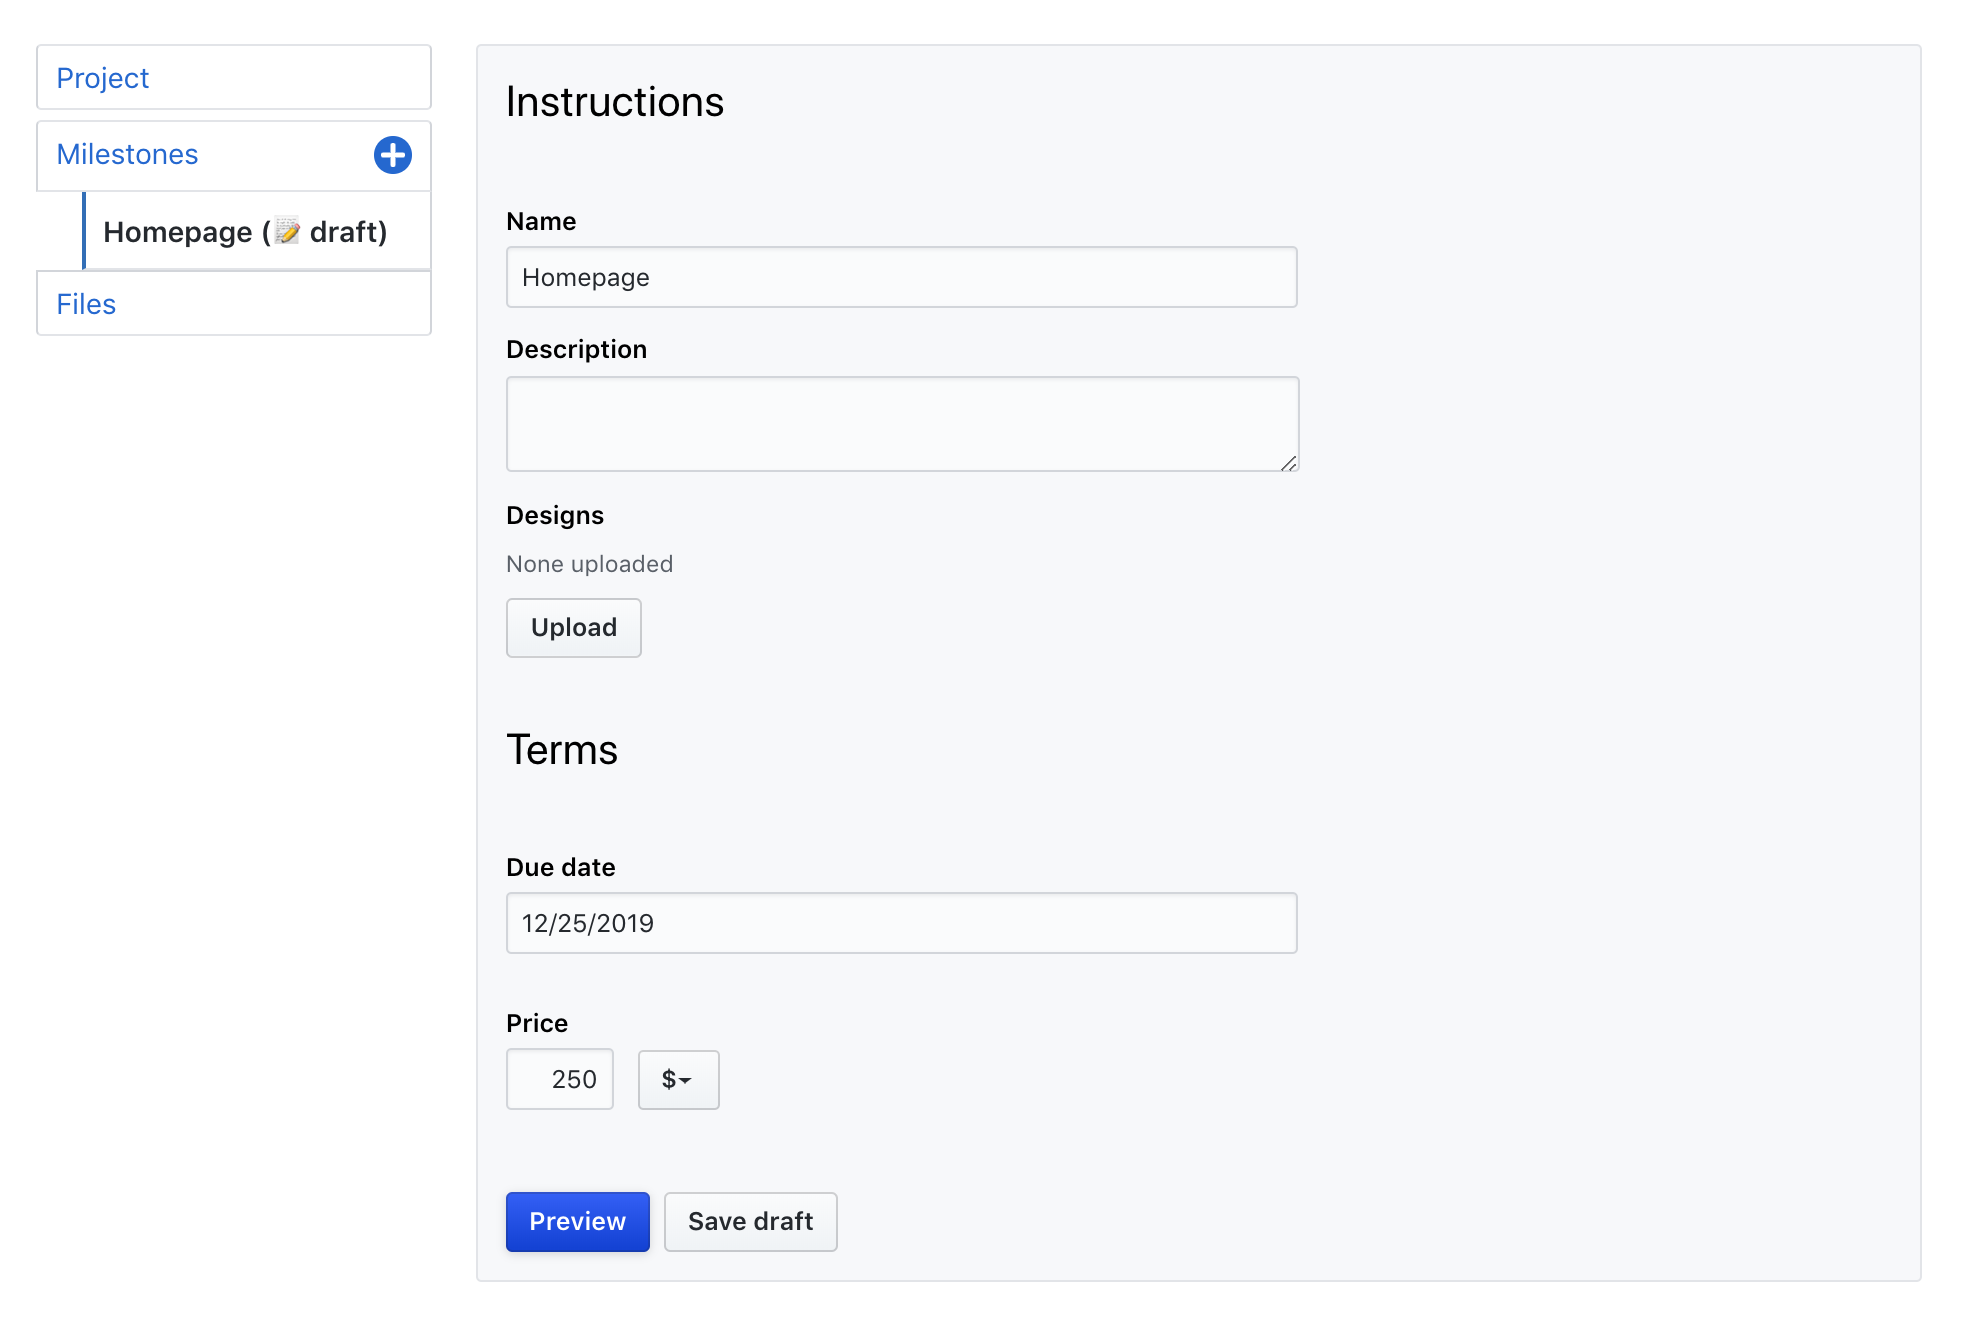
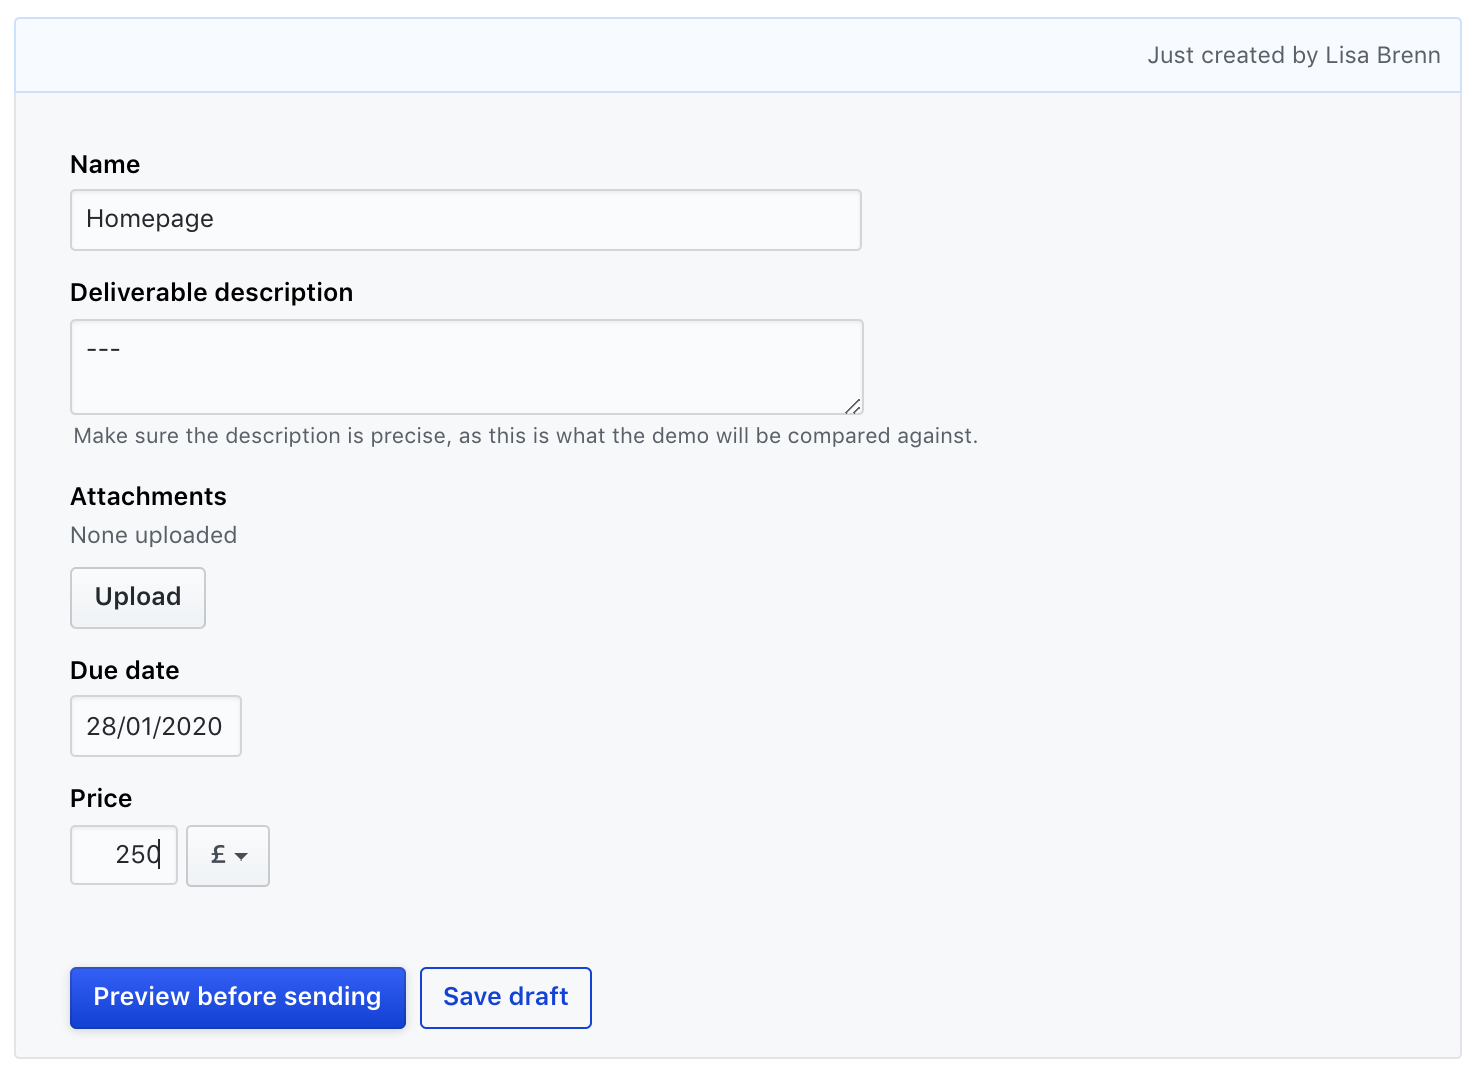
ele

diff --git a/_sass/custom/custom.scss b/_sass/custom/custom.scss
@@ -8,6 +8,53 @@ body {
   @include fs-6;
 }
 
+.button {
+  position: relative;
+  display: inline-block;
+  padding: 6px 12px;
+  font-size: 14px;
+  font-weight: 600;
+  line-height: 20px;
+  white-space: nowrap;
+  vertical-align: middle;
+  cursor: pointer;
+  -webkit-user-select: none;
+  -moz-user-select: none;
+  -ms-user-select: none;
+  user-select: none;
+  background-repeat: repeat-x;
+  background-position: -1px -1px;
+  background-size: 110% 110%;
+  // border: 1px solid rgba(27, 31, 35, 0.2);
+  border-radius: 0.25em;
+  -webkit-appearance: button;
+  display: block;
+  // width: 100%;
+  text-align: center;
+}
+
+.blue-gradient {
+  background-image: linear-gradient(-180deg, #315bff, #143cdc 90%);
+  color: white;
+  // border: none !important;
+  box-shadow: 0 1px 5px rgba(0, 0, 0, 0.15);
+}
+
+.secondary-green {
+  color: green;
+  border: 1px solid green;
+  background-image: none;
+  background-color: transparent;
+}
+
+.green-gradient {
+  color: white;
+  // background-image: none;
+  background-image: linear-gradient(-180deg, #039c03, green 90%);
+
+  background-color: green !important;
+}
+
 .two-cards {
   display: flex;
   flex-direction: row;

diff --git a/example.md b/example.md
@@ -4,15 +4,15 @@ nav_order: 3
 
 ## A concrete example
 
-Lisa is a freelancer and Steve is her client. Steve wants to have Lisa build a brand new website.
+Lisa is a freelancer and Steve is her client. Steve needs Lisa to build him a brand new website.
 
-Neither want to go through a platform that will charge expensive fees, so Lisa signs up to [Freelancer Protocol](https://www.freelancerprotocol.com/) as a freelancer.
+<!-- Neither want to go through a platform that will charge expensive fees, so Lisa signs up to [Freelancer Protocol](https://www.freelancerprotocol.com/) as a freelancer.
 
  <div class ="example-image small">
   <img src="/images/freelancerSignUp.png" alt="accessibility text" >
-</div>
+</div> -->
 
-She creates a project she names _Steve's website_ and sets _steve@gmail.com_ as the client email.
+Lisa creates a project: she names it _Steve's website_ and sets _steve@gmail.com_ as the client email.
 
  <div class ="example-image tiny">
   <img src="/images/NewProject.png" alt="accessibility text" >
@@ -22,20 +22,24 @@ She creates a project she names _Steve's website_ and sets _steve@gmail.com_ as 
   <img src="/images/ProjectCategory.png" alt="accessibility text" >
 </div>
 
-She creates draft for a milestone titled _Homepage_. She prepopulates the due date and price fields, suggesting respectively a week from now and \$250.
+She populates the project with a milestone titled _Homepage_. She fills the _Due date_ and _Price_ fields, suggesting respectively a week from now and \£250.
+
+Note she leaves the _Deliverable description_ field blank, so that Steve can fill it.
 
  <div class ="example-image big">
   <img src="/images/LisasDraft.png" alt="accessibility text" >
 </div>
 
-Lisa now shares the project with the draft milestone in it.
+Lisa now previews and sends by clicking on <span className="button blue-gradient"> Accept and Send</span>
+.
 
-Steve is pinged by email, and taken directly to the project after he signs up as a client.
+If Steve has not already signed up to Freelancer Protocol, he'll be sent an invite to join. If he already is a user, he'll receive a simple email:
 
  <div class ="example-image medium">
   <img src="/images/StevesEmail.png" alt="accessibility text" >
 </div>
 
+Steve chooses to **Accept with modification**
 He enters his payment info (client need to for the milestone to start) and details his specs for the homepage.
 He then previews the milestone before sending it.
 
